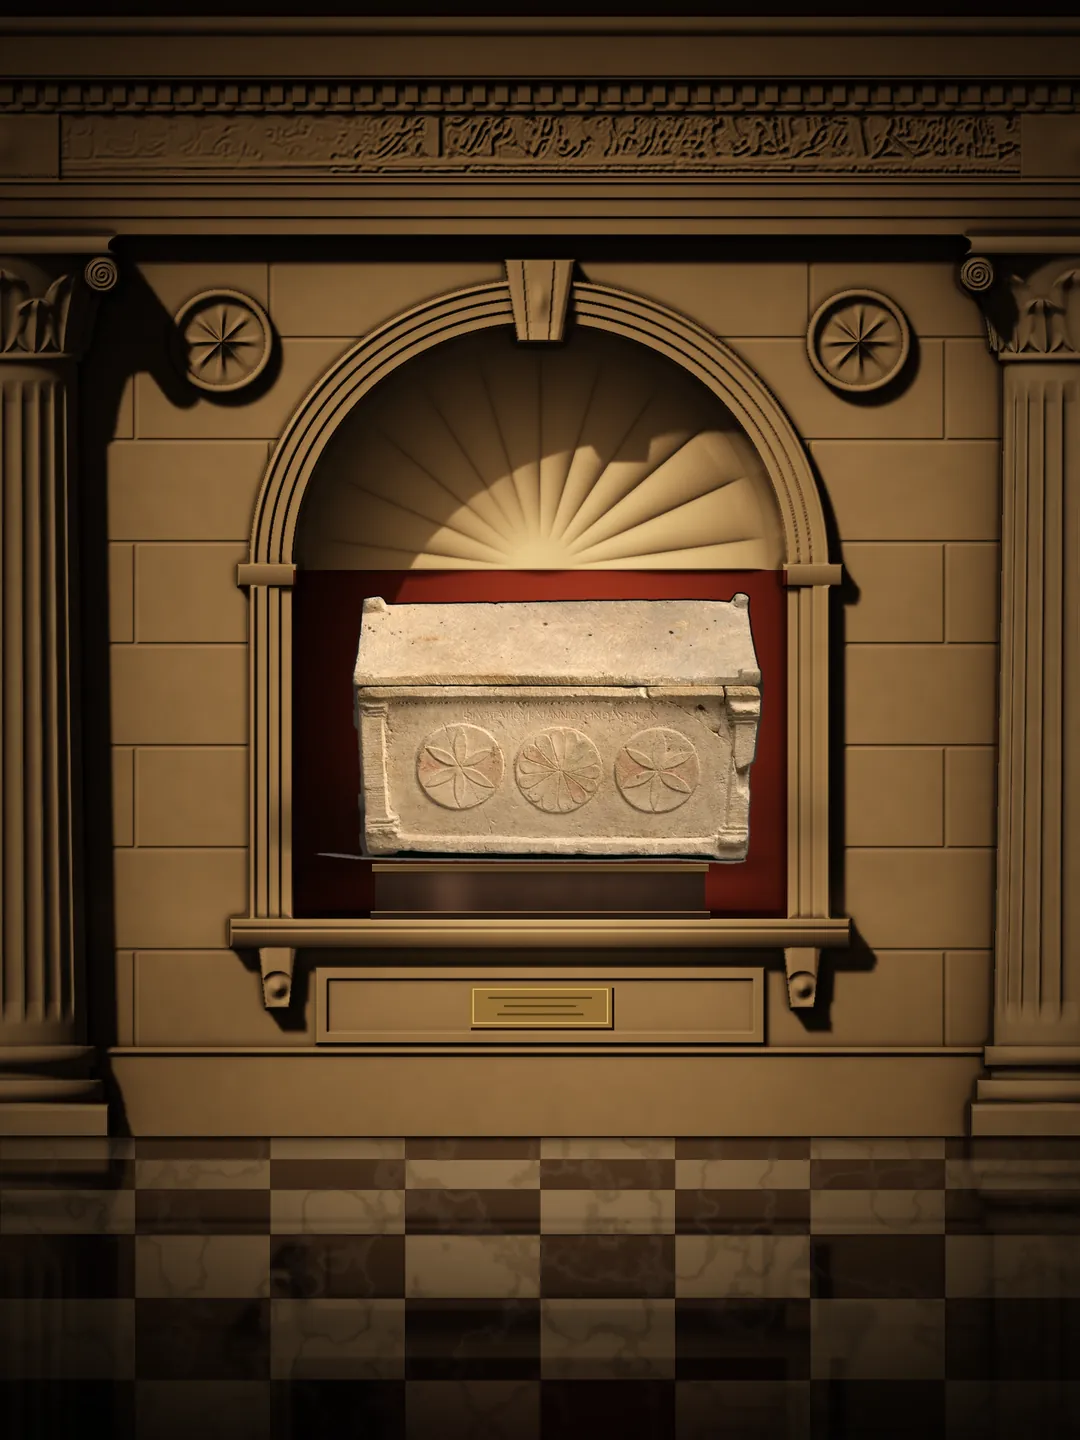
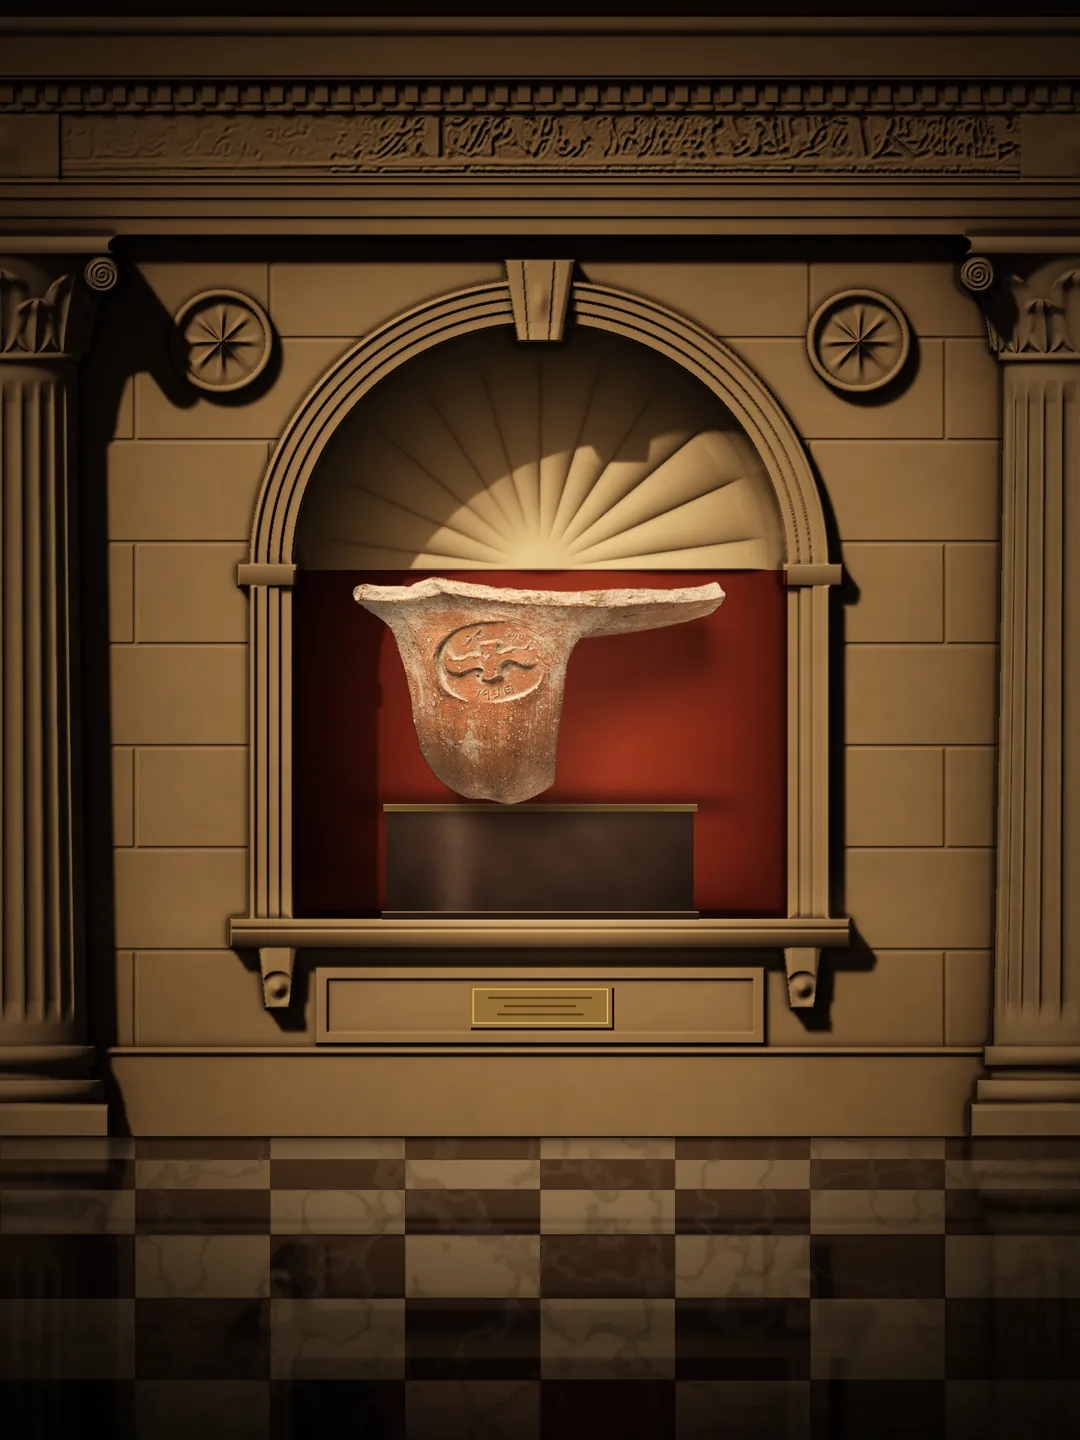
Archives hero: swap in two pieces from ancient Judah
Replaces the Hanukkah lamp and the stone ossuary with a jug with strainer
and a stamped storage-jar handle, both Iron Age II finds from Lachish
(Met 323145 and 323177, CC0). The cut-out script gains a 'grey' option
that treats anything no warmer than the backdrop as backdrop.

Changed region(s): [[0.3056, 0.375, 0.7333, 0.625], [0.2444, 0.5625, 0.275, 0.5938]]

diff --git a/scripts/archives-cutout.py b/scripts/archives-cutout.py
@@ -67,7 +67,7 @@ def smooth01(x, a, b):
 def lum(x):
     return x[..., 0] * 0.3 + x[..., 1] * 0.59 + x[..., 2] * 0.11
 
-def cut(path, out_dir, grad_t=0.010, chroma_t=0.03, deg=5, ratio_hi=1.12, extra_seeds=(), no_top=False, crop_bottom=None, hole_res=0.06, force=None, holes=False, luma=None, erode=0, hole_box=None):
+def cut(path, out_dir, grad_t=0.010, chroma_t=0.03, deg=5, ratio_hi=1.12, extra_seeds=(), no_top=False, crop_bottom=None, hole_res=0.06, force=None, holes=False, luma=None, erode=0, hole_box=None, grey=None):
     im = np.asarray(Image.open(path).convert('RGB')).astype(np.float32) / 255
     if crop_bottom:
         im = im[:crop_bottom]
@@ -82,6 +82,11 @@ def cut(path, out_dir, grad_t=0.010, chroma_t=0.03, deg=5, ratio_hi=1.12, extra_
     ratio = L / Lb
     dark_bg = (L < 0.07) & (np.abs(im - bg).max(-1) < 0.05)
     cand = ((gradb < grad_t) & (chroma < chroma_t) & (ratio < ratio_hi) & (ratio > 0.15)) | (dark_bg & (gradb < grad_t * 1.5))
+    if grey:
+        # warm pieces on a grey backdrop: anything no warmer than the backdrop
+        # (its cooler shadows included) is backdrop
+        warm = (ch[..., 0] - ch[..., 2]) * np.clip(L / 0.12, 0, 1)
+        cand |= (warm < grey) & (ratio > 0.1)
     if luma:
         # dark backdrops: anything not clearly brighter than the backdrop is backdrop
         cand |= ((L - Lb) < luma) & (L < 0.4)
@@ -149,13 +154,13 @@ def cut(path, out_dir, grad_t=0.010, chroma_t=0.03, deg=5, ratio_hi=1.12, extra_
 
 PARAMS = {
     'is_bottle.png': {'holes': True},
-    'is_hanukkah.png': {'holes': True, 'ratio_hi': 2.0, 'chroma_t': 0.06, 'hole_res': 0.2, 'grad_t': 0.014,
-                        'hole_box': (0, 0.72, 1, 1)},
     'pe_lion.png': {'ratio_hi': 1.5, 'grad_t': 0.014, 'chroma_t': 0.09},
     'fr_reliquary.png': {'grad_t': 0.014, 'chroma_t': 0.2, 'ratio_hi': 3.0},
     'it_augustus.png': {'chroma_t': 0.15, 'luma': 0.05, 'erode': 1},
     'eg_canopic.png': {'luma': 0.06, 'erode': 1},
     'it_bowl.png': {'luma': 0.04},
+    'is_jug.png': {'grey': 0.15, 'holes': True, 'hole_res': 0.12},
+    'is_seal.png': {'grey': 0.12},
     'eg_cat.png': {'force': [(93, 905), (575, 866), (812, 948), (815, 1082), (430, 1198), (95, 1046)]},
 }
 

diff --git a/scripts/archives-museum.py b/scripts/archives-museum.py
@@ -517,7 +517,7 @@ PIECES = [
     ('fr_armor', 560, 760, 0, False),
     ('it_augustus', 400, 440, 170, False),
     ('pe_lion', 540, 420, 120, False),
-    ('is_hanukkah', 470, 560, 60, False),
+    ('is_jug', 520, 520, 70, False),
     ('eg_hippo', 560, 360, 140, False),
     ('fr_reliquary', 500, 540, 80, False),
     ('it_bowl', 520, 520, 0, True),
@@ -527,7 +527,7 @@ PIECES = [
     ('fr_sevres', 540, 440, 110, False),
     ('it_helmet', 540, 470, 130, False),
     ('pe_rhyton', 420, 620, 40, False),
-    ('is_ossuary', 600, 400, 70, False),
+    ('is_seal', 500, 360, 150, False),
 ]
 
 _ARCH = None

diff --git a/scripts/archives-art/CREDITS.md b/scripts/archives-art/CREDITS.md
@@ -13,8 +13,8 @@ are those photos cut out of their backdrops by `scripts/archives-cutout.py`.
 | fr_reliquary | Reliquary bust of Saint Yrieix, Limoges | 464333 |
 | fr_sevres | Potpourri vase, Sèvres, 1757 | 202192 |
 | is_bottle | Bottle, Israelite, Iron Age II, from Lachish | 323144 |
-| is_hanukkah | Hanukkah lamp, silver, late 17th century | 192064 |
-| is_ossuary | Limestone ossuary with lid, 1st century BCE to 1st century CE | 256777 |
+| is_jug | Jug with strainer, Israelite, Iron Age II, from Lachish | 323145 |
+| is_seal | Jar handle with a seal impression, Israelite, Iron Age II, from Lachish | 323177 |
 | it_augustus | Marble portrait of the emperor Augustus | 247993 |
 | it_bowl | Maiolica bowl with the Virgin and a unicorn | 199737 |
 | it_helmet | Burgonet by Filippo Negroli, Milan, 1543 | 22634 |
